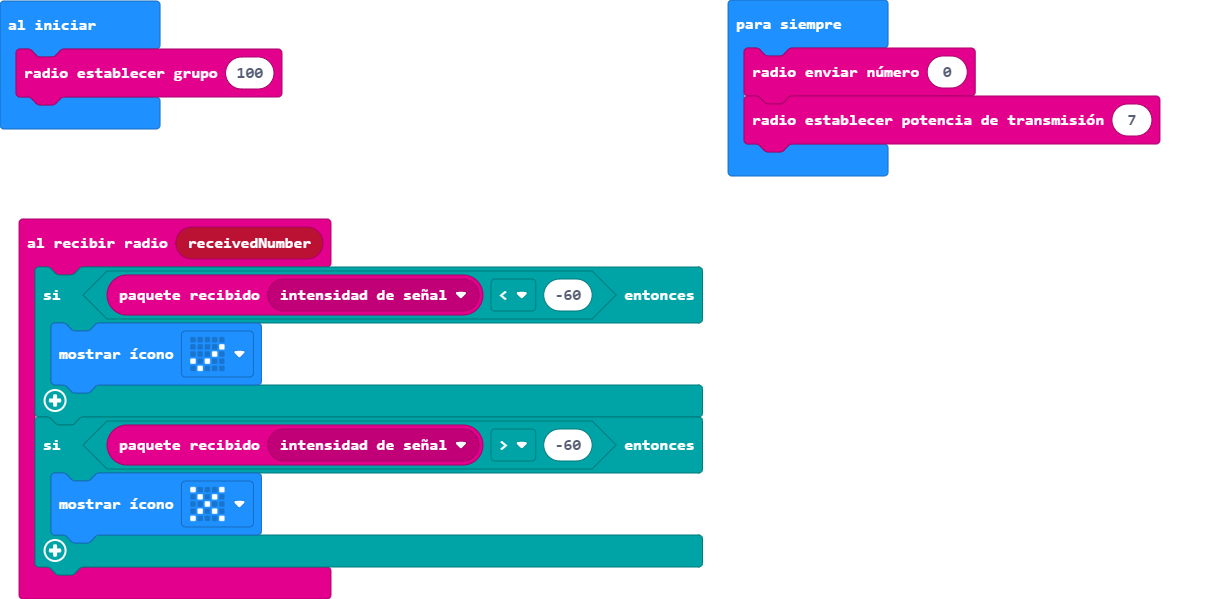
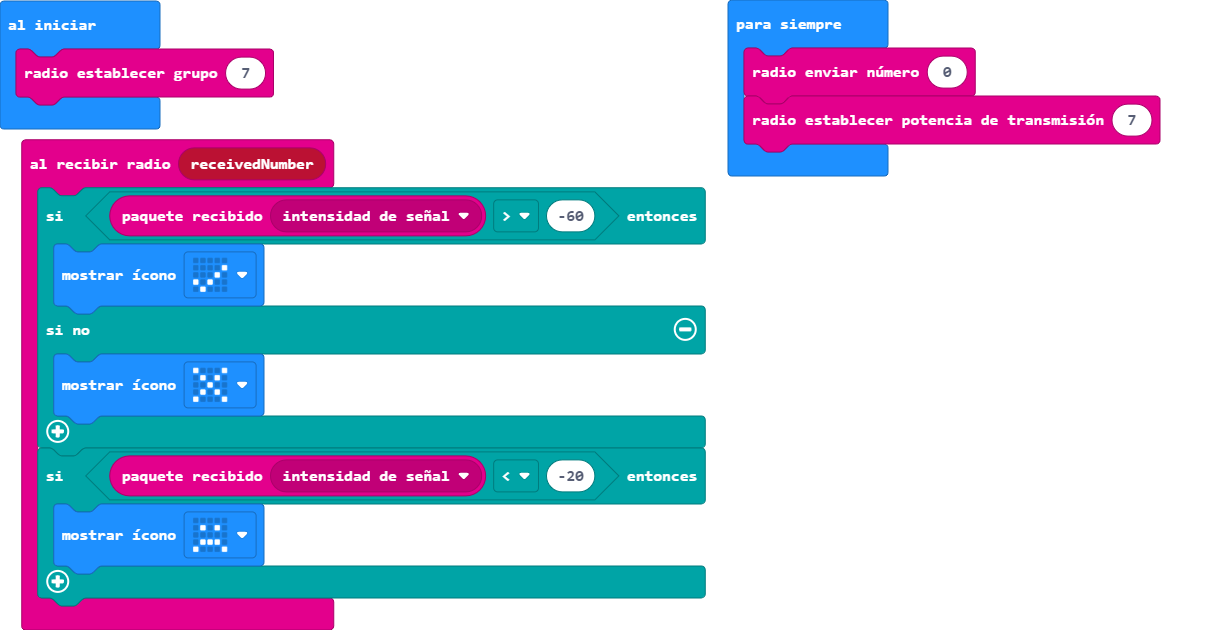
Actualizar main.blocks, main.ts

Changed region(s): [[0.0, 0.0301, 0.9769, 1.0]]

diff --git a/main.ts b/main.ts
@@ -1,12 +1,14 @@
 radio.onReceivedNumber(function (receivedNumber) {
-    if (radio.receivedPacket(RadioPacketProperty.SignalStrength) < -60) {
-        basic.showIcon(IconNames.Yes)
-    }
     if (radio.receivedPacket(RadioPacketProperty.SignalStrength) > -60) {
+        basic.showIcon(IconNames.Yes)
+    } else {
         basic.showIcon(IconNames.No)
     }
+    if (radio.receivedPacket(RadioPacketProperty.SignalStrength) < -20) {
+        basic.showIcon(IconNames.Sad)
+    }
 })
-radio.setGroup(100)
+radio.setGroup(7)
 basic.forever(function () {
     radio.sendNumber(0)
     radio.setTransmitPower(7)
